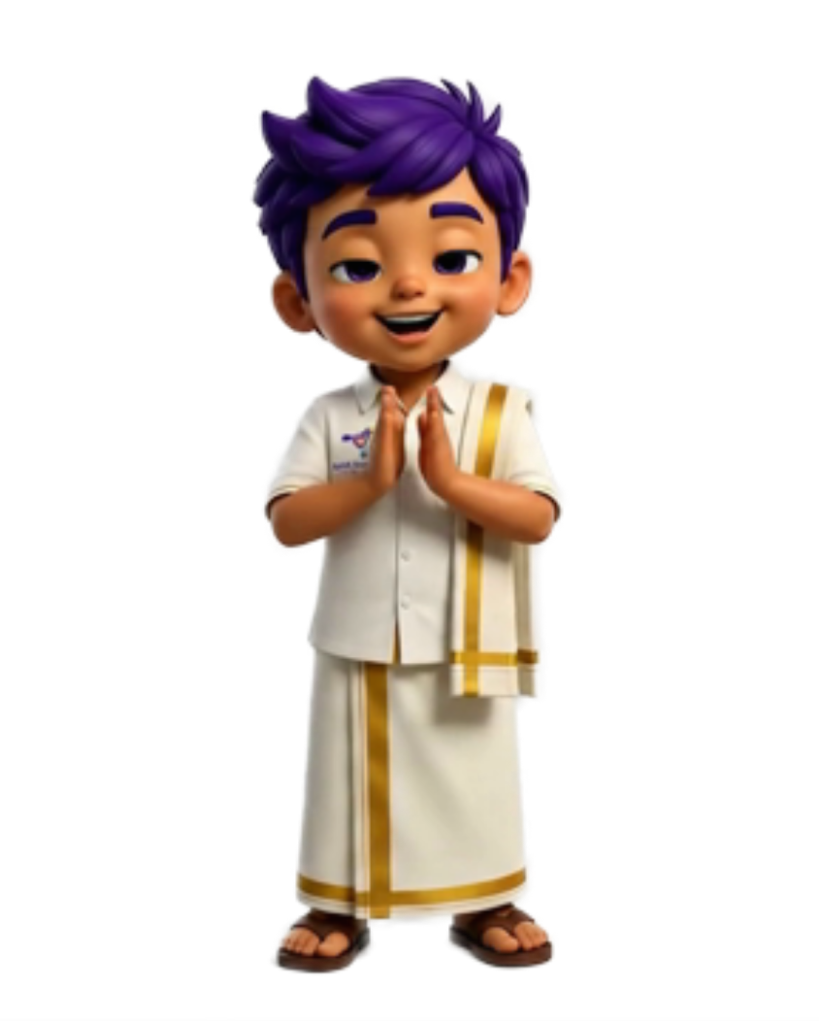
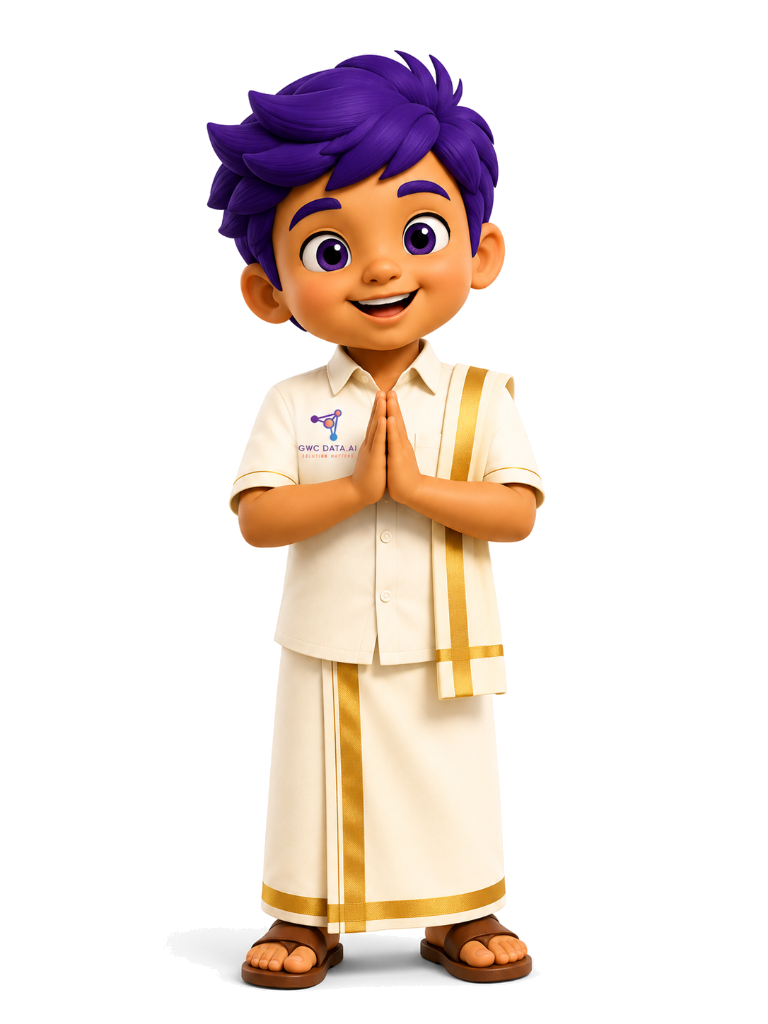
update mascot to high-res official version with white background panel styling

Changed region(s): [[0.25, 0.0312, 0.7188, 0.9688]]

diff --git a/frontend/src/views/AuthView.jsx b/frontend/src/views/AuthView.jsx
@@ -137,12 +137,12 @@ export function AuthView({ onLoginSuccess }) {
         </div>
       </div>
 
-      {/* RIGHT: Visual Area — Welcoming Mascot Character */}
-      <div className="hidden md:flex flex-1 bg-gradient-to-br from-[#2a0e39] via-[#1a0824] to-[#100416] relative overflow-hidden items-center justify-center p-8">
-        {/* Ambient brand glow */}
-        <div className="absolute -top-24 -left-24 w-96 h-96 bg-[#6e2b8b]/35 rounded-full blur-3xl pointer-events-none" />
-        <div className="absolute -bottom-24 -right-24 w-96 h-96 bg-[#da7756]/25 rounded-full blur-3xl pointer-events-none" />
-        <div className="absolute inset-0 bg-[radial-gradient(circle_at_center,rgba(110,43,139,0.15)_0%,transparent_70%)] pointer-events-none" />
+      {/* RIGHT: Visual Area — Welcoming Mascot Character with Clean White Background */}
+      <div className="hidden md:flex flex-1 bg-gradient-to-br from-purple-50/80 via-white to-orange-50/60 dark:from-zinc-900 dark:via-zinc-900/90 dark:to-zinc-850 relative overflow-hidden items-center justify-center p-8 border-l border-slate-100 dark:border-zinc-800">
+        {/* Soft ambient brand pastel blur */}
+        <div className="absolute -top-24 -left-24 w-96 h-96 bg-[#6e2b8b]/10 dark:bg-[#6e2b8b]/20 rounded-full blur-3xl pointer-events-none" />
+        <div className="absolute -bottom-24 -right-24 w-96 h-96 bg-[#da7756]/10 dark:bg-[#da7756]/15 rounded-full blur-3xl pointer-events-none" />
+        <div className="absolute inset-0 bg-[radial-gradient(circle_at_center,rgba(110,43,139,0.04)_0%,transparent_70%)] pointer-events-none" />
 
         <motion.div 
           initial={{ opacity: 0, scale: 0.92, y: 20 }}
@@ -150,23 +150,23 @@ export function AuthView({ onLoginSuccess }) {
           transition={{ duration: 0.7, type: 'spring', bounce: 0.25 }}
           className="relative z-10 flex flex-col items-center text-center max-w-sm"
         >
-          {/* Mascot character image with floating animation and soft ambient halo */}
+          {/* High-res Mascot character image */}
           <div className="relative">
-            <div className="absolute inset-0 bg-gradient-to-b from-[#6e2b8b]/40 to-[#da7756]/30 rounded-full blur-2xl transform scale-90 -z-10" />
+            <div className="absolute inset-0 bg-gradient-to-b from-[#6e2b8b]/15 to-[#da7756]/15 rounded-full blur-2xl transform scale-90 -z-10" />
             <motion.img 
               src="/welcome_mascot.png" 
               alt="Welcome Mascot" 
               animate={{ y: [0, -8, 0] }}
               transition={{ duration: 4, repeat: Infinity, ease: 'easeInOut' }}
-              className="w-64 sm:w-72 md:w-80 h-auto object-contain drop-shadow-[0_20px_35px_rgba(0,0,0,0.5)] select-none pointer-events-none"
+              className="w-64 sm:w-72 md:w-80 max-h-[420px] h-auto object-contain drop-shadow-[0_15px_25px_rgba(110,43,139,0.15)] select-none pointer-events-none"
             />
           </div>
 
-          <div className="mt-2 space-y-1.5">
-            <h2 className="text-2xl font-bold text-white tracking-tight">
-              Welcome to <span className="text-transparent bg-clip-text bg-gradient-to-r from-purple-200 via-white to-[#da7756]">GWC PhotoSync</span>
+          <div className="mt-4 space-y-1.5">
+            <h2 className="text-2xl sm:text-3xl font-bold tracking-tight text-slate-900 dark:text-zinc-50">
+              Welcome to <span className="text-transparent bg-clip-text bg-gradient-to-r from-[#6e2b8b] to-[#da7756]">GWC PhotoSync</span>
             </h2>
-            <p className="text-purple-200/80 text-xs sm:text-sm font-medium leading-relaxed max-w-xs">
+            <p className="text-slate-600 dark:text-zinc-400 text-xs sm:text-sm font-medium leading-relaxed max-w-xs">
               AI-Powered Facial Recognition &amp; Instant Event Photo Discovery
             </p>
           </div>
